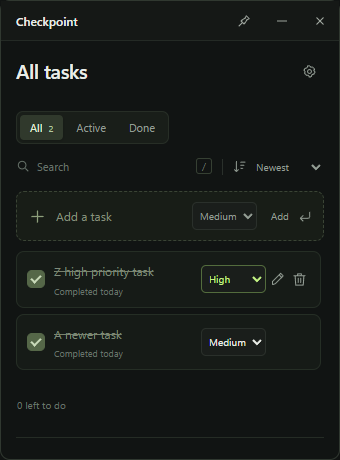
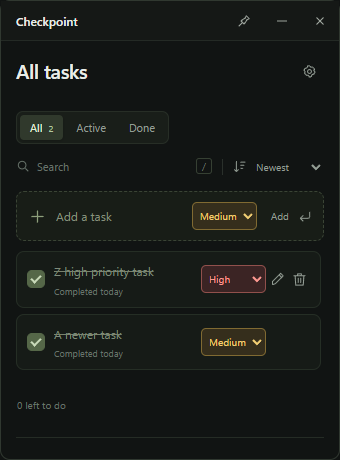
Color priority tags and open capture picker without a default for v1.3.1

Changed region(s): [[0.5882, 0.7, 0.7941, 0.7913], [0.5588, 0.4261, 0.7647, 0.5174], [0.5882, 0.5783, 0.7941, 0.6391]]

diff --git a/src/renderer/styles.css b/src/renderer/styles.css
@@ -22,6 +22,18 @@ dialog{background:#1b211b;color:var(--text);border:1px solid #3c4835;border-radi
 .widget-main .inline-add{gap:9px;padding:10px 11px;margin-bottom:10px}.widget-main .inline-add button{padding-left:5px}.widget-main .task-list{flex:1;overflow-y:auto;padding:0 3px 2px 0;gap:6px}.widget-main .task-row{min-height:54px;padding:10px;gap:9px}.widget-main .task-content{min-width:0}.widget-main .task-text{overflow-wrap:anywhere}.widget-main .task-date{font-size:9px}.widget-main .task-actions{gap:0}.widget-main .task-actions .icon-button{width:26px;height:28px}.widget-main .empty-state{flex:1;min-height:0;padding:12px 8px;justify-content:center}.widget-main .empty-state h2{font-size:15px}.widget-main .empty-state p{font-size:11px;line-height:1.5;margin-top:5px}.widget-main .empty-state .text-button{margin-top:11px}.widget-main .main-footer{margin-top:8px;padding-top:8px}
 .widget-main .system-notice{margin-top:10px;padding:8px 10px;font-size:10px}.widget-main .list-footer{padding-top:8px;font-size:10px}.widget-main .task-list:empty{display:none}
 
-.priority-select{font-size:10px;color:var(--muted);background:var(--surface);border:1px solid var(--line);border-radius:5px;padding:5px 3px;max-width:74px;cursor:pointer}.priority-high{color:var(--accent);border-color:#536c3d}.priority-medium{color:var(--text)}.priority-low{color:var(--muted)}.widget-main .task-actions .icon-button{width:22px}.priority-dialog{width:390px}.priority-dialog .dialog-content{padding:20px}.priority-dialog h2{font-size:20px}.priority-dialog .dialog-heading{margin-bottom:10px}.priority-options{display:flex;gap:9px;margin-top:16px}.priority-options button{flex:1;flex-direction:column;gap:7px;border:1px solid var(--line);border-radius:8px;padding:12px 8px;background:var(--surface);font-size:12px}.priority-options button:hover,.priority-options button:focus-visible{border-color:var(--accent);background:var(--accent-dark);color:var(--accent)}.priority-options kbd{font-size:11px;color:var(--accent)}.priority-prompt{font-size:11px;color:var(--muted)}.capture-body .priority-dialog{max-height:calc(100vh - 20px)}
+/* Priority colors are shared by task tags and quick capture choices. */
+.priority-low,.priority-select:has(option[value="low"]:checked),.priority-options [data-priority="low"]{--priority-color:#8dbfff;--priority-bg:#1b2b40;--priority-border:#42648d}
+.priority-medium,.priority-select:has(option[value="medium"]:checked),.priority-options [data-priority="medium"]{--priority-color:#f3cf74;--priority-bg:#352e1c;--priority-border:#806a32}
+.priority-high,.priority-select:has(option[value="high"]:checked),.priority-options [data-priority="high"]{--priority-color:#ff9991;--priority-bg:#3b2424;--priority-border:#91504c}
+.priority-select{font-size:10px;color:var(--priority-color,var(--muted));background:var(--priority-bg,var(--surface));border:1px solid var(--priority-border,var(--line));border-radius:5px;padding:5px 3px;max-width:74px;cursor:pointer}
+.priority-select:focus-visible{border-color:var(--priority-color,var(--accent))}
+.widget-main .task-actions .icon-button{width:22px}
+.priority-dialog{width:390px}.priority-dialog .dialog-content{padding:20px}.priority-dialog h2{font-size:20px;outline:none}.priority-dialog .dialog-heading{margin-bottom:10px}
+.priority-options{display:flex;gap:9px;margin-top:16px}
+.priority-options button{flex:1;flex-direction:column;gap:7px;border:1px solid var(--line);border-radius:8px;padding:12px 8px;background:var(--surface);color:var(--priority-color);font-size:12px}
+.priority-options button:hover,.priority-options button:focus-visible{border-color:var(--priority-color);background:var(--priority-bg)}
+.priority-options button:focus-visible{outline-color:var(--priority-color)}
+.priority-options kbd{font-size:11px;color:inherit}.priority-prompt{font-size:11px;color:var(--muted)}.capture-body .priority-dialog{max-height:calc(100vh - 20px)}
 
 .update-section{border-top:1px solid var(--line);padding:18px 0 20px}.update-section h3{font-size:12px;font-weight:600}.update-actions{display:flex;flex-wrap:wrap;gap:8px}.update-actions button{font-size:11px;padding:9px 10px}.update-section details{font-size:11px;margin-bottom:14px}.update-section summary{cursor:pointer;color:var(--accent)}#update-notes{white-space:pre-wrap;overflow-wrap:anywhere;font:11px/1.7 inherit;max-height:160px;overflow:auto;color:var(--muted)}#update-progress{margin:0 0 14px}

diff --git a/src/renderer/priority-picker.js b/src/renderer/priority-picker.js
@@ -2,7 +2,7 @@ const priorityDialog = document.createElement('dialog');
 priorityDialog.className = 'priority-dialog';
 priorityDialog.setAttribute('aria-labelledby', 'priority-title');
 priorityDialog.innerHTML = `<div class="dialog-content">
-  <div class="dialog-heading"><h2 id="priority-title">Choose priority</h2><button type="button" class="icon-button" aria-label="Cancel priority selection">${icon('x')}</button></div>
+  <div class="dialog-heading"><h2 id="priority-title" tabindex="-1">Choose priority</h2><button type="button" class="icon-button" aria-label="Cancel priority selection">${icon('x')}</button></div>
   <p class="priority-prompt">Press a number to save your task.</p>
   <div class="priority-options"><button type="button" data-priority="low"><kbd>1</kbd>Low</button><button type="button" data-priority="medium"><kbd>2</kbd>Medium</button><button type="button" data-priority="high"><kbd>3</kbd>High</button></div>
 </div>`;
@@ -27,6 +27,6 @@ function choosePriority() {
   return new Promise(resolve => {
     priorityResolve = resolve;
     motion.dialog(priorityDialog);
-    priorityDialog.querySelector('[data-priority="medium"]').focus();
+    priorityDialog.querySelector('#priority-title').focus();
   });
 }

diff --git a/README.md b/README.md
@@ -15,7 +15,7 @@ Download the portable EXE or installer from [GitHub Releases](https://github.com
 - The app remembers its window location and size across relaunches and Windows restarts. If a monitor is disconnected, the window is kept within an available display. Rolling up does not overwrite the expanded height.
 - In the main window, **Ctrl + N** focuses the task input and **/** focuses search.
 
-Tasks support priorities, searching, sorting, editing, and deletion with an eight-second Undo action. A single filter row offers **All / Active / Done**. Tasks sort **High → Medium → Low** within the active and completed groups; the selected sort breaks ties within a priority. Choose a priority beside the main task input or change it directly on a task. Existing starred tasks migrate to High, and other existing tasks to Medium. GSAP animates additions, reordering, dialogs, capture confirmation, and window roll-up; completing a task triggers a small burst of confetti in the app's theme colors. Renderer effects respect reduced-motion preferences. No sample tasks are added to your real task list.
+Tasks support priorities, searching, sorting, editing, and deletion with an eight-second Undo action. Priority tags use blue for Low, yellow for Medium, and red for High. Quick capture opens its priority picker without highlighting a default choice. A single filter row offers **All / Active / Done**. Tasks sort **High → Medium → Low** within the active and completed groups; the selected sort breaks ties within a priority. Choose a priority beside the main task input or change it directly on a task. Existing starred tasks migrate to High, and other existing tasks to Medium. GSAP animates additions, reordering, dialogs, capture confirmation, and window roll-up; completing a task triggers a small burst of confetti in the app's theme colors. Renderer effects respect reduced-motion preferences. No sample tasks are added to your real task list.
 
 Completed tasks are permanently deleted **24 hours after completion** by default. Settings can disable cleanup or change retention to 1–365 days. Cleanup runs when Checkpoint opens and every minute while it runs; reopening a task clears its completion time. Settings also displays the app version and **by Athul Johny © 2026**.
 

diff --git a/release-notes/v1.3.1.md b/release-notes/v1.3.1.md
@@ -1,0 +1,7 @@
+# Checkpoint 1.3.1
+
+- Color-coded priority tags: blue for Low, yellow for Medium, and red for High.
+- Quick capture opens the priority picker without highlighting Medium or any other priority. Choose with 1/2/3, a click, or Tab and Enter.
+- Priority colors also appear in the new-task selector and quick-capture choices.
+
+Download `Checkpoint-1.3.1-Windows.exe` for the portable app or `Checkpoint-1.3.1-Setup.exe` for the installer. Existing users can install this release from Settings → Check for updates.
